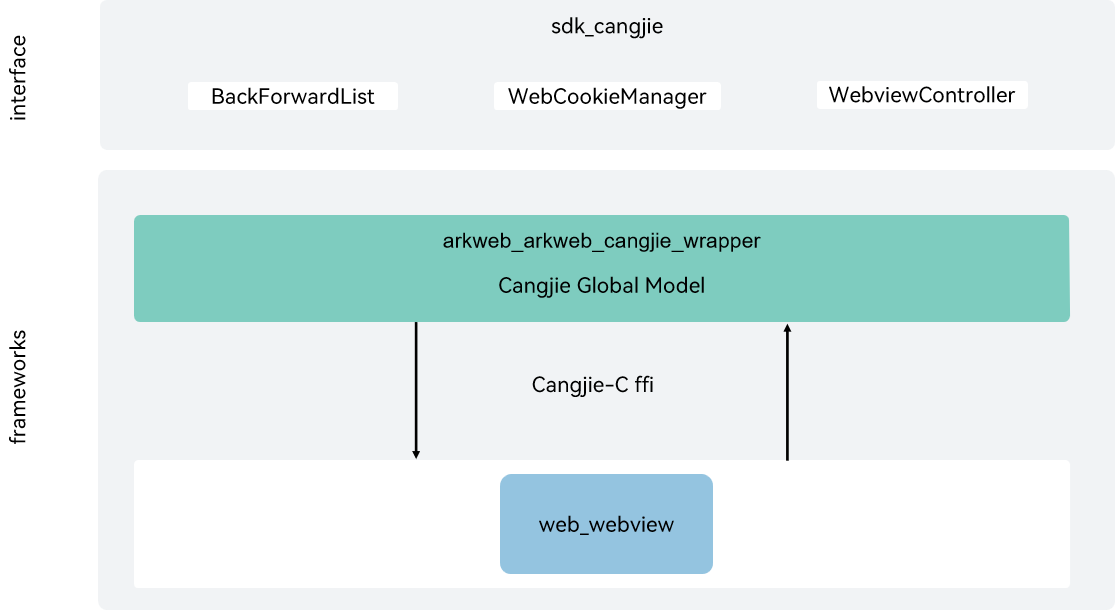
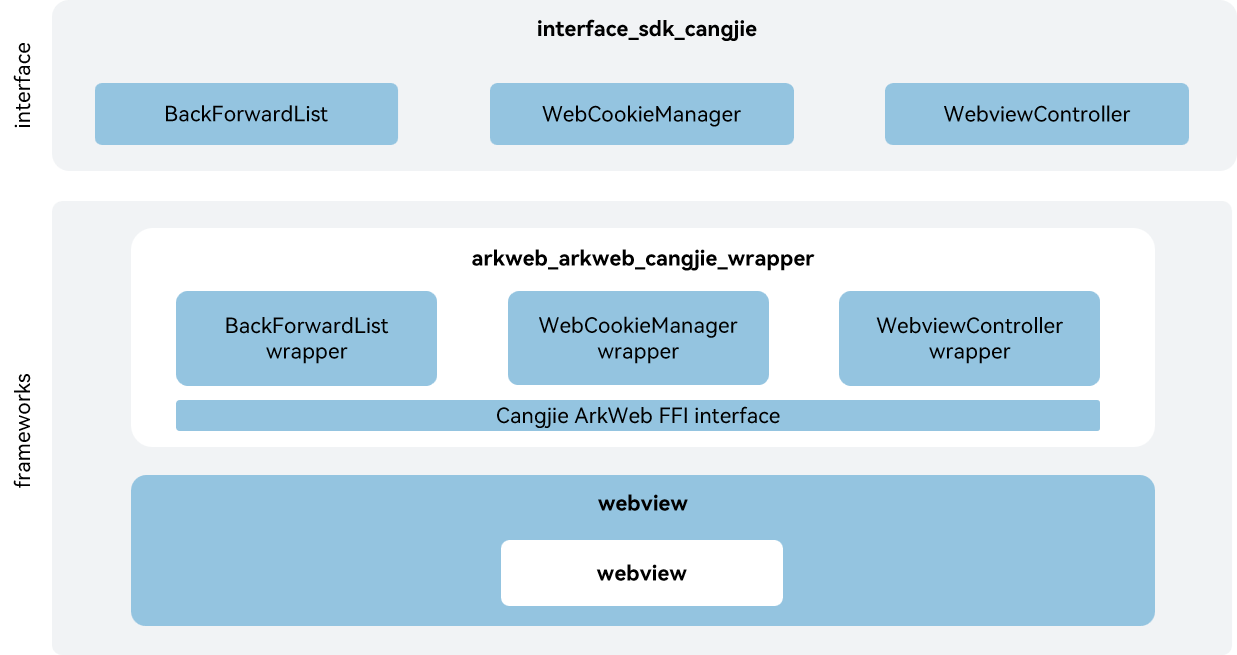
修改ArkWeb子系统描述

diff --git a/README.md b/README.md
@@ -2,7 +2,8 @@
 
 ## Introduction
 
-The Web Cangjie API is a Cangjie API encapsulated on OpenHarmony based on the arkweb capability. arkweb is the native engine of OpenHarmony webview components, built on Chromium and CEF.
+The Web Cangjie Interface is a Cangjie API encapsulated on OpenHarmony based on ArkWeb capabilities. It provides the capabilities of Web component control, Cookie management, and historical information list.
+The currently open ArkWeb Cangjie api only supports standard devices.
 
 ## Architecture
 
@@ -10,22 +11,24 @@ The Web Cangjie API is a Cangjie API encapsulated on OpenHarmony based on the ar
 
 ![](figures/arkweb_cangjie_wrapper_architecture_en.png "web-architecture")
 
-* nweb: native engine of the OpenHarmony web component, which is built based on the Chromium Embedded Framework (CEF).
-* CEF: stands for Chromium Embedded Framework. It is an open-source project based on Google Chromium.
+As shown in the architecture:
+
+- BackForwardList: Provides the capability to obtain information about the historical record item at a specified index in the historical list.
+- WebCookieManager: Provides the capability to control various behaviors of cookies in Web components.
+- WebviewController: Provides the capability to control various behaviors of Web components (including behaviors such as page navigation, lifecycle status, and JavaScript interaction).
+- Cangjie ArkWeb FFI Interface:  Based on cross-language interoperability via C interfaces to implement ArkWeb Cangjie API.
+- webview: Responsible for providing basic webview functions, and encapsulates C interfaces for Cangjie to conduct interoperation.
 
 ## Directory Structure
 
 ```
 base/web/arkweb_cangjie_wrapper
-├── ohos             # Cangjie webview code
-├── kit              # Cangjie kit code
-├── figures          # architecture pictures
+├── figures    # architecture pictures
+├── kit        # Cangjie ArkWeb kit code
+│   └── ArkWeb
+└── ohos       # Cangjie ArkWeb code
+    └── web
 ```
-
-## Constraints
-
-The currently open ArkWeb Cangjie api only supports standard devices.
-
 ## Usage Guidelines
 
 The following features are provided:
@@ -66,6 +69,16 @@ For ArkWeb-related APIs, please refer to [ohos.web.webview](https://gitcode.com/
 ## Repositories Involved
 
 [web_webview](https://gitee.com/openharmony/web_webview)
+
+[arkcompiler_cangjie_ark_interop](https://gitcode.com/openharmony-sig/arkcompiler_cangjie_ark_interop)
+
+[arkui_arkui_cangjie_wrapper](https://gitcode.com/openharmony-sig/arkui_arkui_cangjie_wrapper)
+
+[multimedia_multimedia_cangjie_wrapper](https://gitcode.com/openharmony-sig/multimedia_multimedia_cangjie_wrapper)
+
+[global_global_cangjie_wrapper](https://gitcode.com/openharmony-sig/global_global_cangjie_wrapper)
+
+[hiviewdfx_hiviewdfx_cangjie_wrapper](https://gitcode.com/openharmony-sig/hiviewdfx_hiviewdfx_cangjie_wrapper)
 
 ## Code Contribution
 

diff --git a/README_zh.md b/README_zh.md
@@ -2,7 +2,8 @@
 
 ## 简介
 
-Web仓颉接口是在 OpenHarmony 上基于 arkweb 能力之上封装的仓颉API。提供了Web组件控制器，Cookie管理和历史信息列表的能力。
+Web仓颉接口是在OpenHarmony上基于ArkWeb能力之上封装的仓颉API。提供了Web组件控制，Cookie管理和历史信息列表的能力。
+当前开放的Web仓颉接口仅支持standard设备。
 
 ## 系统架构
 
@@ -14,18 +15,24 @@ Web仓颉接口是在 OpenHarmony 上基于 arkweb 能力之上封装的仓颉AP
 
 ```
 base/web/arkweb_cangjie_wrapper
-├── ohos             # 仓颉webview接口实现
-├── kit              # 仓颉kit化代码
-├── figures          # 存放readme中的架构图
+├── figures    # 存放README中的架构图
+├── kit        # 仓颉ArkWeb的kit化代码
+│   └── ArkWeb
+└── ohos       # 仓颉ArkWeb接口实现
+    └── web
 ```
 
-## 约束
+如架构图所示：
 
-当前开放的Web仓颉接口仅支持standard设备。
+- 历史信息列表：提供获取历史列表中指定索引的历史记录项信息。
+- Cookie管理：提供控制Web组件中的cookie的各种行为。
+- Web组件控制器：提供控制Web组件各种行为（包括页面导航、生命周期状态、JavaScript交互等行为）。
+- 仓颉方舟Web FFI接口定义：负责定义C互操作仓颉接口，用于实现全球化的能力。
+- webview基础能力：负责提供webview基础功能，封装C接口提供给仓颉进行互操作。
 
 ## 使用说明
 
-如架构图所示，Web仓颉接口提供了以下功能接口，开发者可以根据使用诉求，综合使用一类或多类接口：
+Web仓颉接口提供了以下功能接口，开发者可以根据使用诉求，综合使用一类或多类接口：
 
   - BackForwardList：历史信息列表。
   - WebCookieManager：Cookie管理。
@@ -63,6 +70,16 @@ base/web/arkweb_cangjie_wrapper
 ## 相关仓
 
 [web_webview](https://gitee.com/openharmony/web_webview)
+
+[arkcompiler_cangjie_ark_interop](https://gitcode.com/openharmony-sig/arkcompiler_cangjie_ark_interop)
+
+[arkui_arkui_cangjie_wrapper](https://gitcode.com/openharmony-sig/arkui_arkui_cangjie_wrapper)
+
+[multimedia_multimedia_cangjie_wrapper](https://gitcode.com/openharmony-sig/multimedia_multimedia_cangjie_wrapper)
+
+[global_global_cangjie_wrapper](https://gitcode.com/openharmony-sig/global_global_cangjie_wrapper)
+
+[hiviewdfx_hiviewdfx_cangjie_wrapper](https://gitcode.com/openharmony-sig/hiviewdfx_hiviewdfx_cangjie_wrapper)
 
 ## 参与贡献
 
